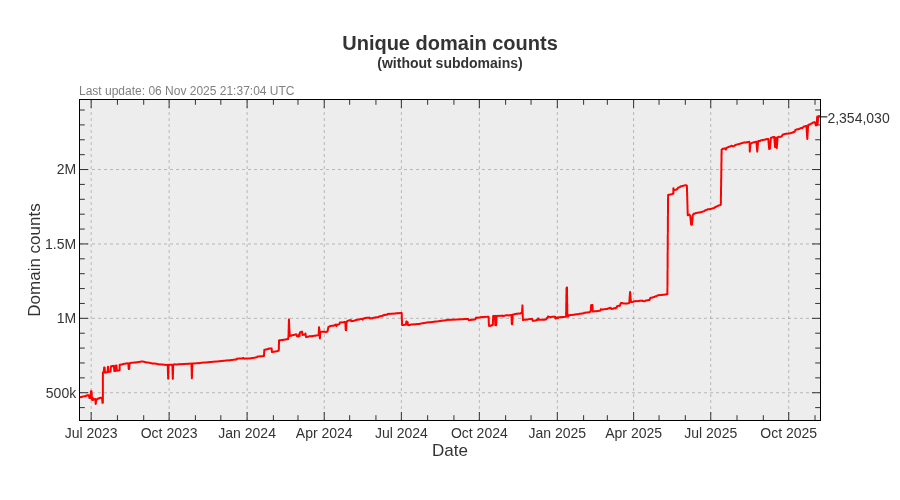
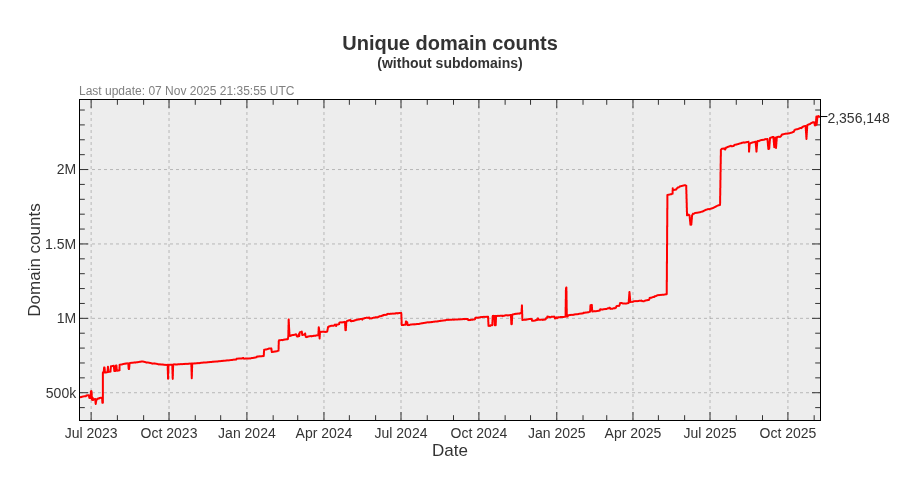
Update pages

diff --git a/README.md b/README.md
@@ -3,22 +3,22 @@ A blocklist file for blocking ads, trackers and malware domains.
 
[1 lines of base64/hex data omitted]
 
-- Unique domains: 3,084,431
-- Without subdomains: 2,354,030
-- Last update: 06 Nov 2025 21:37:04 UTC
-- Version: 2025.11.06.01
+- Unique domains: 3,086,723
+- Without subdomains: 2,356,148
+- Last update: 07 Nov 2025 21:35:55 UTC
+- Version: 2025.11.07.01
 
 
 ### Downloads:
 
 | Format             | Domain count      | Download Link |
 |:------------------ | -----------------:|:-------------:|
-| *Adblock Plus*     | 2,354,030 | [Download](https://dl.cenk.app/bad-hosts/bad-hosts-abp) |
-| *Wildcard domains* | 2,354,030 | [Download](https://dl.cenk.app/bad-hosts/bad-hosts-wildcard) |
-| *dnsmasq*          | 2,354,030 | [Download](https://dl.cenk.app/bad-hosts/bad-hosts-dnsmasq) |
-| *hosts*            | 3,084,431 | [Download](https://dl.cenk.app/bad-hosts/hosts) |
-| *hosts (ipv6)*     | 3,084,431 | [Download](https://dl.cenk.app/bad-hosts/hosts-ipv6) |
-| *Plain domains*    | 3,084,431 | [Download](https://dl.cenk.app/bad-hosts/bad-hosts-domains) |
+| *Adblock Plus*     | 2,356,148 | [Download](https://dl.cenk.app/bad-hosts/bad-hosts-abp) |
+| *Wildcard domains* | 2,356,148 | [Download](https://dl.cenk.app/bad-hosts/bad-hosts-wildcard) |
+| *dnsmasq*          | 2,356,148 | [Download](https://dl.cenk.app/bad-hosts/bad-hosts-dnsmasq) |
+| *hosts*            | 3,086,723 | [Download](https://dl.cenk.app/bad-hosts/hosts) |
+| *hosts (ipv6)*     | 3,086,723 | [Download](https://dl.cenk.app/bad-hosts/hosts-ipv6) |
+| *Plain domains*    | 3,086,723 | [Download](https://dl.cenk.app/bad-hosts/bad-hosts-domains) |
 
 ### Domain count history
 #### With subdomains
